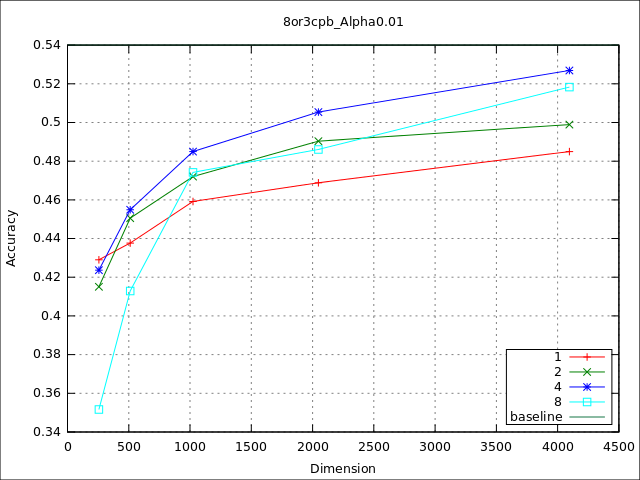
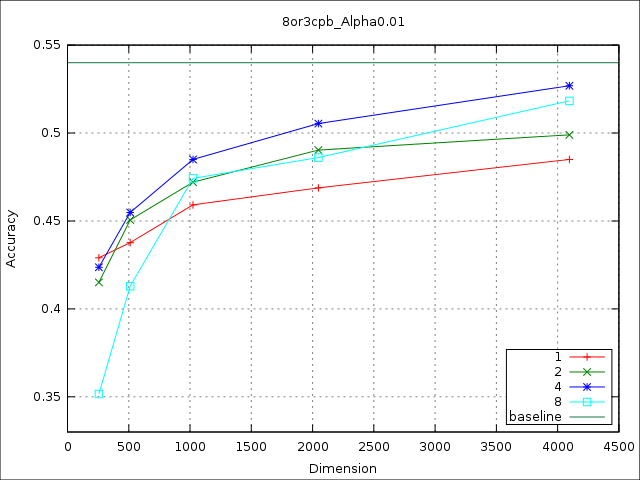
reunión 5/6

diff --git a/capitulo3/implementacion_propia.tex b/capitulo3/implementacion_propia.tex
@@ -85,17 +85,17 @@
 			\label{fig: Transformacion Afin - Escala}
 		\end{figure}	
 			
-		\paragraph{Inclinación}
+		\paragraph{Inclinación}\JS{Transvección}
 		
-			La inclinación es una transformación donde la imagen se ``estira'' horizontalmente. Es una función que toma un punto con coordenadas $(x,y)$ al punto $(x +n*y, y)$ donde $n$ es un parámetro fijo, denominado el factor de inclinación. El efecto es el desplazamiento de todos los puntos horizontalmente en una cantidad proporcional a su coordenada $y$. Todo punto encima del eje $x$ es desplazado a la derecha si $n > 0$, y a la izquiera si $n < 0$. Nuestra matriz $M$ va a ser de la forma:
+			La inclinación es una transformación donde la imagen se ``estira'' horizontalmente \JS{otra forma de decirlo es que rota un solo eje}. Es una función que toma un punto con coordenadas $(x,y)$ al punto $(x +ny, y)$ donde $n$ es un parámetro fijo, denominado el factor de inclinación. El efecto es el desplazamiento de todos los puntos horizontalmente en una cantidad proporcional a su coordenada $y$. Todo punto encima del eje $x$ es desplazado a la derecha si $n > 0$, y a la izquiera si $n < 0$. Nuestra matriz $M$ va a ser de la forma:
 			\begin{equation}
 				M = 
 				\begin{bmatrix}
-					1 & b \\
+					1 & n \\
 					0 & 1 \\
-				\end{bmatrix}
+				\end{bmatrix}.
 			\end{equation}
-		donde $b$ representa a $n$. Se puede observar en la figura \ref{fig: Transformacion Afin - Inclinacion} los diferentes efectos de aplicar diferentes valores de $b$ en la aplicación de la inclinación en una imagen.
+		Se puede observar en la figura \ref{fig: Transformacion Afin - Inclinacion} los diferentes efectos de aplicar diferentes valores de $n$ en la aplicación de la inclinación en una imagen.
 		\begin{figure}[htbp]
 			\centering
 			\subfloat[\label{fig: Imagen inclinacion 1}]{
@@ -123,6 +123,7 @@
 			}
 			\caption[Inclinación de un caracter]{Cambio de inclinación de un caracter.}
 			\label{fig: Transformacion Afin - Inclinacion}
+			\JS{5 figuras y en una sola línea}
 		\end{figure}	
 		
 		\paragraph{Traslación}		

diff --git a/capitulo4/resultados.tex b/capitulo4/resultados.tex
@@ -1,5 +1,21 @@
 \newpage
 \subsection{Resultados}
+
+\JS{
+Sobre img. reales:
+\begin{itemize}
+\item discutir(=elegir) valor de alpha
+\item evaluar binarización y elegir una de referencia. 5 Gráficas en la misma escala: las cuatro primeras evaluando los distintos esquemas de binarización para las distintas configuraciones de DPG (dimensiones por grupo); la quinta, comparando los distintos esquemas de binarización para una cantidad de PG fija => elegir un valor de DPG para el resto de los experimentos (LA MISMA DIMENSIONALIDAD PARA TODAS LAS CONFIGURACIONES)
+\item idem evaluando el número de grupos
+\end{itemize}
+
+Sobre img. sintéticas:
+\begin{itemize}
+\item discutir entrenamiento del sistema usando solo sintéticas
+\end{itemize}
+}
+
+
 \label{subsection:resultados}
 	tablas, gráficos, análisis y recomendaciones
 	\begin{itemize}
@@ -200,6 +216,7 @@
     	
 	Por último se van a mostrar los resultados correspondientes de haber entrenado al clasificador con conjuntos de entrenamiento mixtos. Se procederá a mostrar los gráficos con las mejores y peores configuraciones y sus resultados. También se mostrarán las matrices de correlación para todos estos casos. Teniendo en cuenta los resultados anteriores, se van a mostrar los resultados de haber utilizado solamente la distribución exponencial como umbral ya que fue la que obtuvo los mejores resultados. En los gráficos  se van a mostrar también los baselines de Wang et al. para las imágenes reales y las sintéticas.
 	
+	\JS{usar escala logarítmica para el eje X (set logscale x). Que el eje X represente la proporción de sintéticas / reales y que parta de 0 (=baseline), con pasos 0.2, 0.5, 1, 2, 5, 10, 20, 50, 100}
 			\begin{figure}[htbp]
 				\centering
 				\includegraphics[scale=0.6]{img/resultados/mixtas/best_expon_8or3cpb_Alpha0,1_4080.png}
